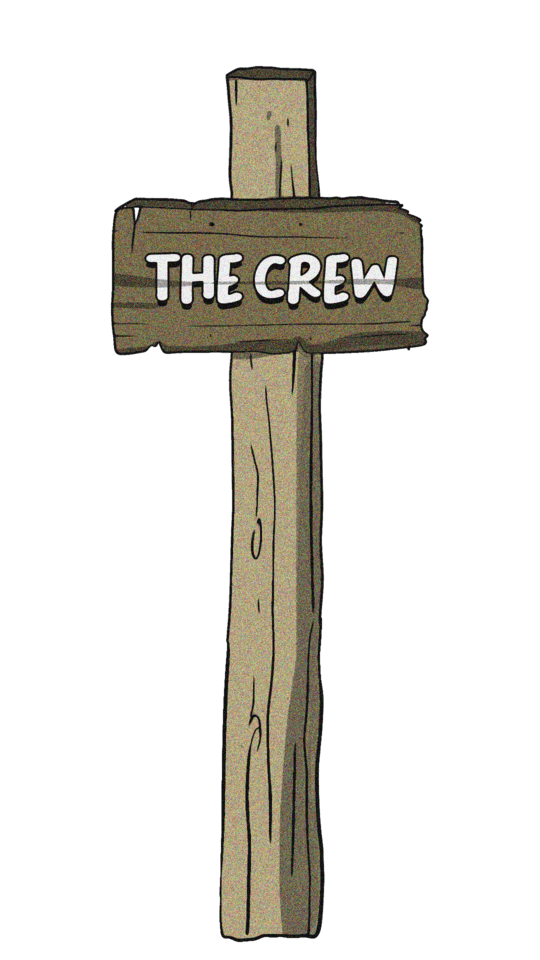
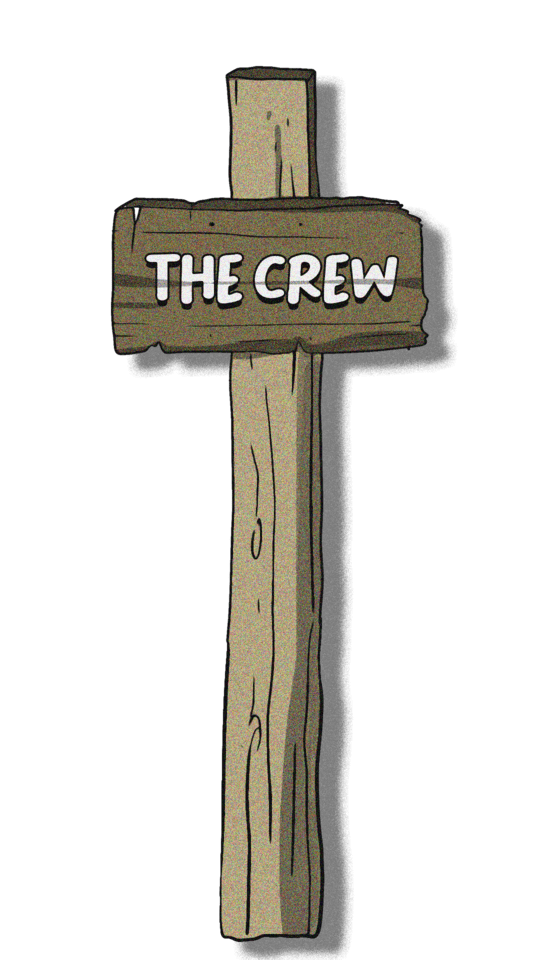
lamp animation added!!!

Changed region(s): [[0.4444, 0.2188, 0.8593, 1.0], [0.237, 0.3438, 0.4444, 0.4062], [0.563, 0.0625, 0.6519, 0.2188]]

diff --git a/assets/js/function.js b/assets/js/function.js
@@ -24,7 +24,6 @@ function pageProgress(element, walking) {
 
   if (walking) {
     if (!isRun) {
-      console.log(isRun);
       isRun = true;
       setTimeout(() => {
         walkingAnimation();
@@ -196,10 +195,10 @@ function tooltipElement(pagePosition, isAnimated) {
       top: pagePosition.pageY + 50,
     });
   }
-  if (isAnimated) animation = value.animation;
 
   Object.keys(tooltip).forEach(function (key) {
     const value = tooltip[key];
+    if (isAnimated) animation = value.animation;
     showTooltip(value.element, value.image, animation);
   });
 }
@@ -228,19 +227,48 @@ function showTooltip(element, image, animation) {
       $("#tooltip").removeAttr("src");
     });
 }
+function lampHandler() {
+  var lamp = $("#flash");
+  var randomImage = lampImage[Math.floor(Math.random() * lampImage.length)];
+  lamp.attr("src", randomImage);
+
+  var randomDelay = Math.random() * 2000 + 1000;
+  lamp.css("opacity", 1);
+
+  if (randomImage === null) {
+    setTimeout(function () {
+      lamp.css("opacity", 0);
+    }, 200);
+  }
+
+  setTimeout(lampHandler, randomDelay);
+}
 function walkingAnimation() {
-  xPos += 4;
-  yPos = Math.sin(time * 0.1) * 10;
+  xPosRoy += 2;
+  xPosDoni += 2;
+
+  yPosRoy = Math.sin(time * 0.1 + 1) * 10;
+  yPosDoni = Math.sin(time * 0.1) * 10;
   time++;
-  midground.css("transform", "translate(" + xPos + "px, " + yPos + "px)");
-  var rect = midground[0].getBoundingClientRect();
+
+  midgroundRoy.css(
+    "transform",
+    "translate(" + xPosRoy + "px, " + yPosRoy + "px)"
+  );
+  midgroundDoni.css(
+    "transform",
+    "translate(" + xPosDoni + "px, " + yPosDoni + "px)"
+  );
+
+  var rect = midgroundDoni[0].getBoundingClientRect();
   if (rect.right < 0 || rect.left > lebarViewport) {
-    midground.remove();
+    midgroundRoy.remove();
     return;
   }
 
   requestAnimationFrame(walkingAnimation);
 }
+
 function openImageLightbox(imageSelector, imageSources) {
   $(imageSelector).on("click", function () {
     var lightbox = new FsLightbox();

diff --git a/assets/css/style.css b/assets/css/style.css
@@ -504,15 +504,44 @@ nav img {
   transform: rotateZ(-10deg);
 }
 
-#teams .midground {
+#teams .midground-roy {
   top: 50%;
   transform: translateX(-340px);
   width: 20%;
   z-index: 3;
 }
 
-#teams .foreground {
+#teams .midground-doni {
+  top: 55%;
+  transform: translateX(-140px);
+  width: 15%;
+  z-index: 3;
+}
+
+#teams .lamp img {
+  top: -83%;
+  left: -20%;
+  width: 90%;
   z-index: 4;
+  animation: lampAnim ease-in-out 3s infinite;
+}
+
+#teams .shadow {
+  opacity: 0.7;
+  z-index: 4;
+}
+
+#teams .lamp .main {
+  z-index: 3;
+}
+
+#teams .lamp .flash {
+  transition: opacity 0.5s;
+  z-index: 4;
+}
+
+#teams .foreground {
+  z-index: 5;
 }
 
 #teams img {
@@ -841,7 +870,7 @@ footer span a:hover {
   }
 
   /* Staff */
-  #teams .midground {
+  #teams .midground-roy {
     left: 0%;
     top: 50%;
   }
@@ -1199,5 +1228,17 @@ footer span a:hover {
   90% {
     -webkit-transform: rotate(8deg);
     transform: rotate(8deg);
+  }
+}
+
+@keyframes lampAnim {
+  0% {
+    transform: rotateZ(-10deg);
+  }
+  50% {
+    transform: rotateZ(10deg);
+  }
+  100% {
+    transform: rotateZ(-10deg);
   }
 }

diff --git a/index.html b/index.html
@@ -315,10 +315,33 @@
           alt="crew sign"
         />
         <img
-          src="./assets/img/staff-image/graffiti/midground.png"
-          class="midground"
+          src="./assets/img/staff-image/graffiti/midground-doni.png"
+          class="midground-doni"
+          alt="Doni Galau"
+        />
+        <img
+          src="./assets/img/staff-image/graffiti/midground-roy.png"
+          class="midground-roy"
           alt="Roy Galau"
         />
+        <img
+          src="/assets/img/staff-image/graffiti/shadow.png"
+          class="shadow"
+          alt="shadow"
+        />
+        <div class="lamp">
+          <img
+            src="./assets/img/staff-image/graffiti/lamp.png"
+            class="main"
+            alt="Lamp"
+          />
+          <img
+            src="./assets/img/staff-image/graffiti/flash-1.png"
+            class="flash"
+            id="flash"
+            alt="flash"
+          />
+        </div>
         <img
           src="./assets/img/staff-image/graffiti/foreground.png"
           class="foreground"

diff --git a/assets/js/index.js b/assets/js/index.js
@@ -1,8 +1,13 @@
-const midground = $(".midground");
+const midgroundRoy = $(".midground-roy");
+const midgroundDoni = $(".midground-doni");
+const lampImage = ["./assets/img/staff-image/graffiti/flash-1.png", null];
 var lebarViewport = $(window).width();
-var xPos = -340;
+var xPosRoy = -340;
+var xPosDoni = -140;
 var yPos = 0;
 var time = 0;
+var stepDelayRoy = 1000;
+var stepDelayDoni = 1200;
 var randomValue = Math.random() * (5000 - 100) + 1;
 var isRun = false;
 const tooltip = {
@@ -94,6 +99,10 @@ const imageSets = [
 ];
 
 $(document).ready(function () {
+  // Daftar gambar lampu yang akan digunakan
+
+  lampHandler();
+
   // Responsive Parallax
   const mediaQuery = window.matchMedia("(min-width: 992px)");
   if (mediaQuery.matches) {
